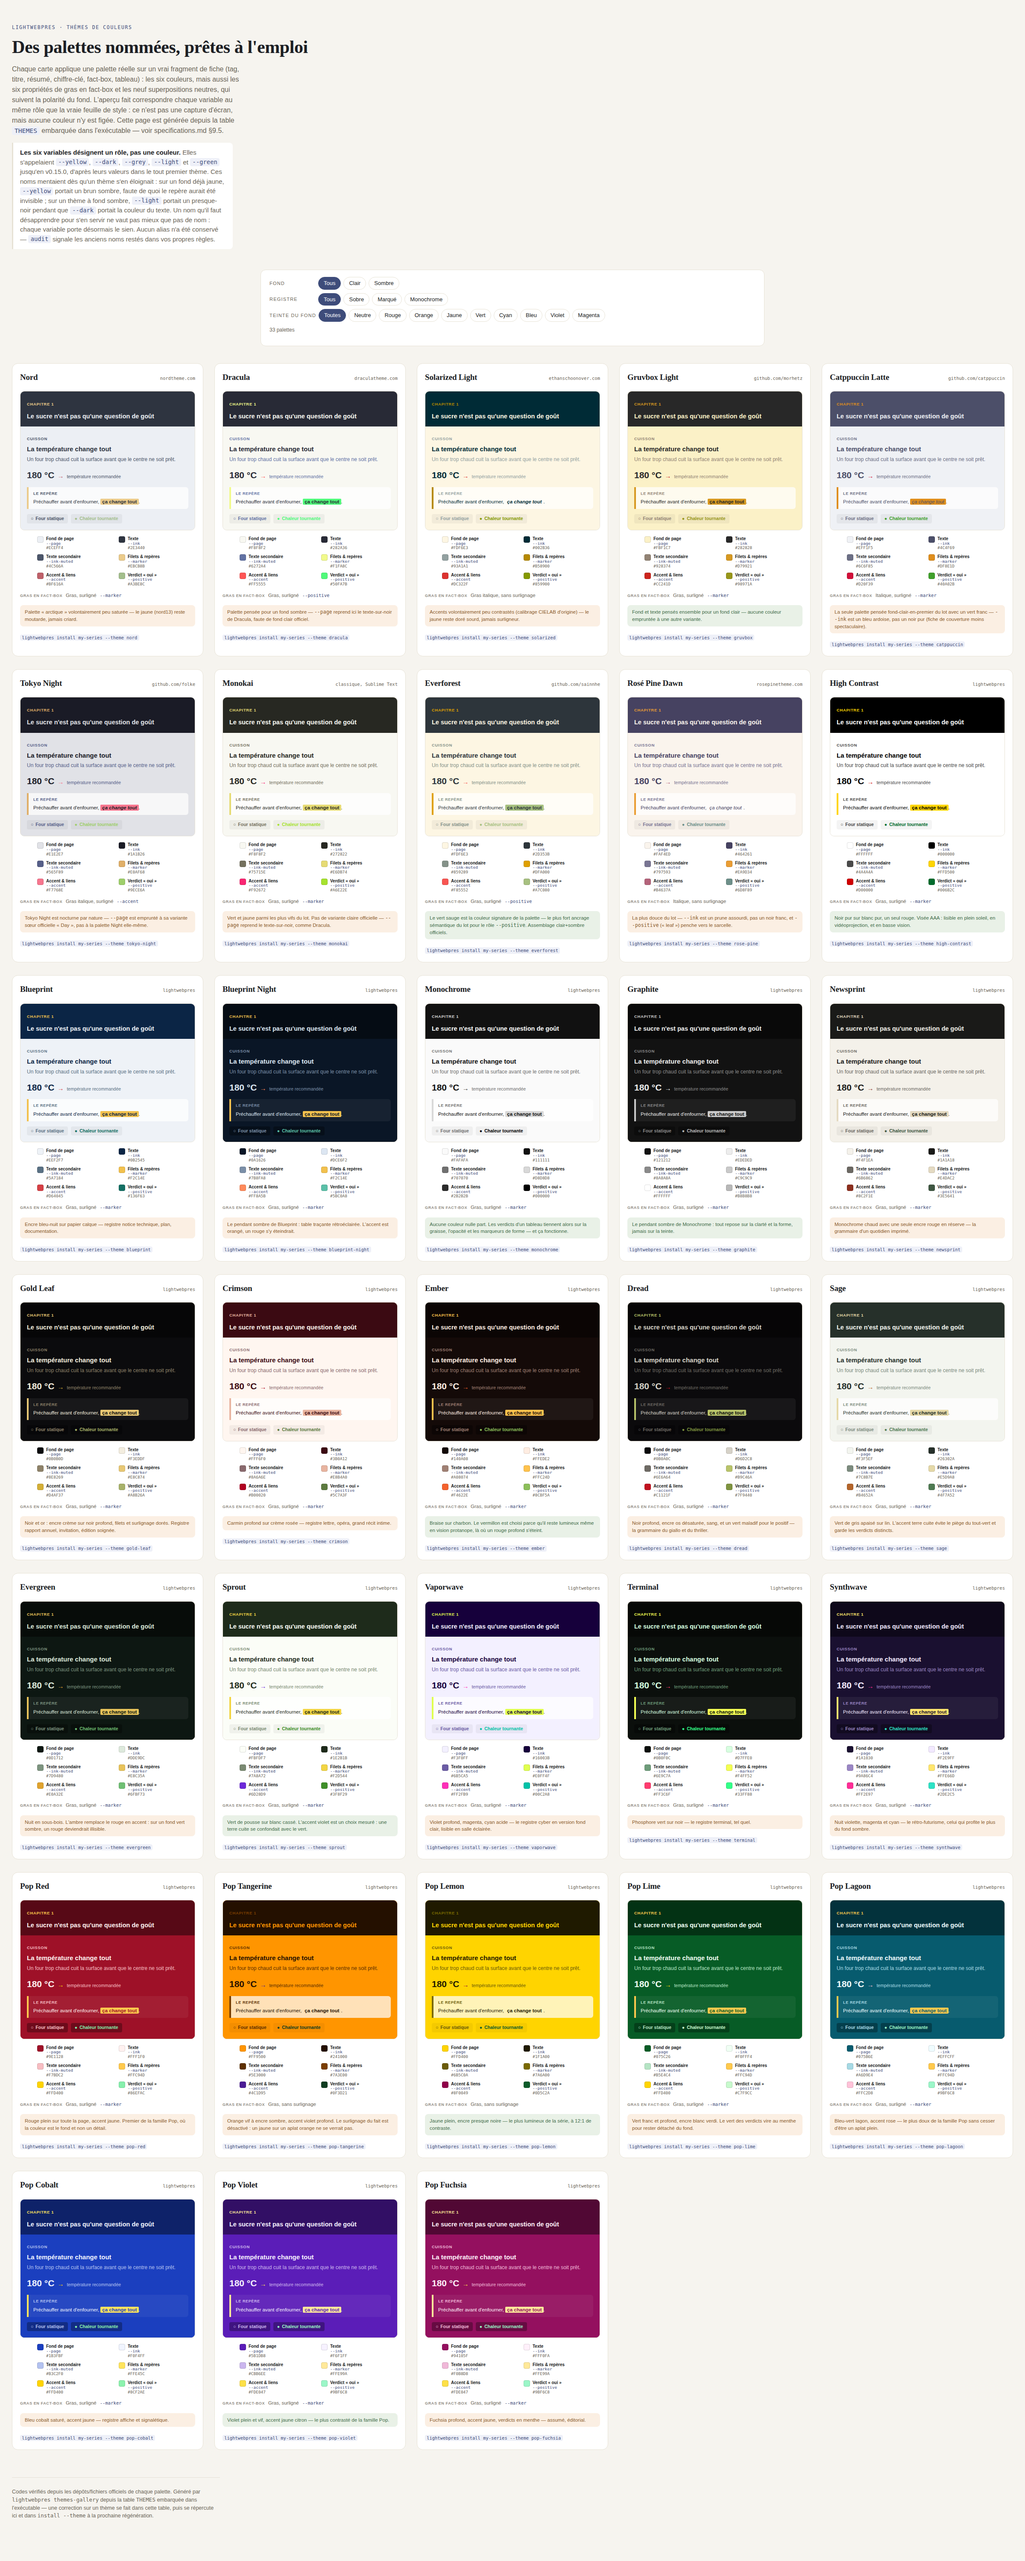
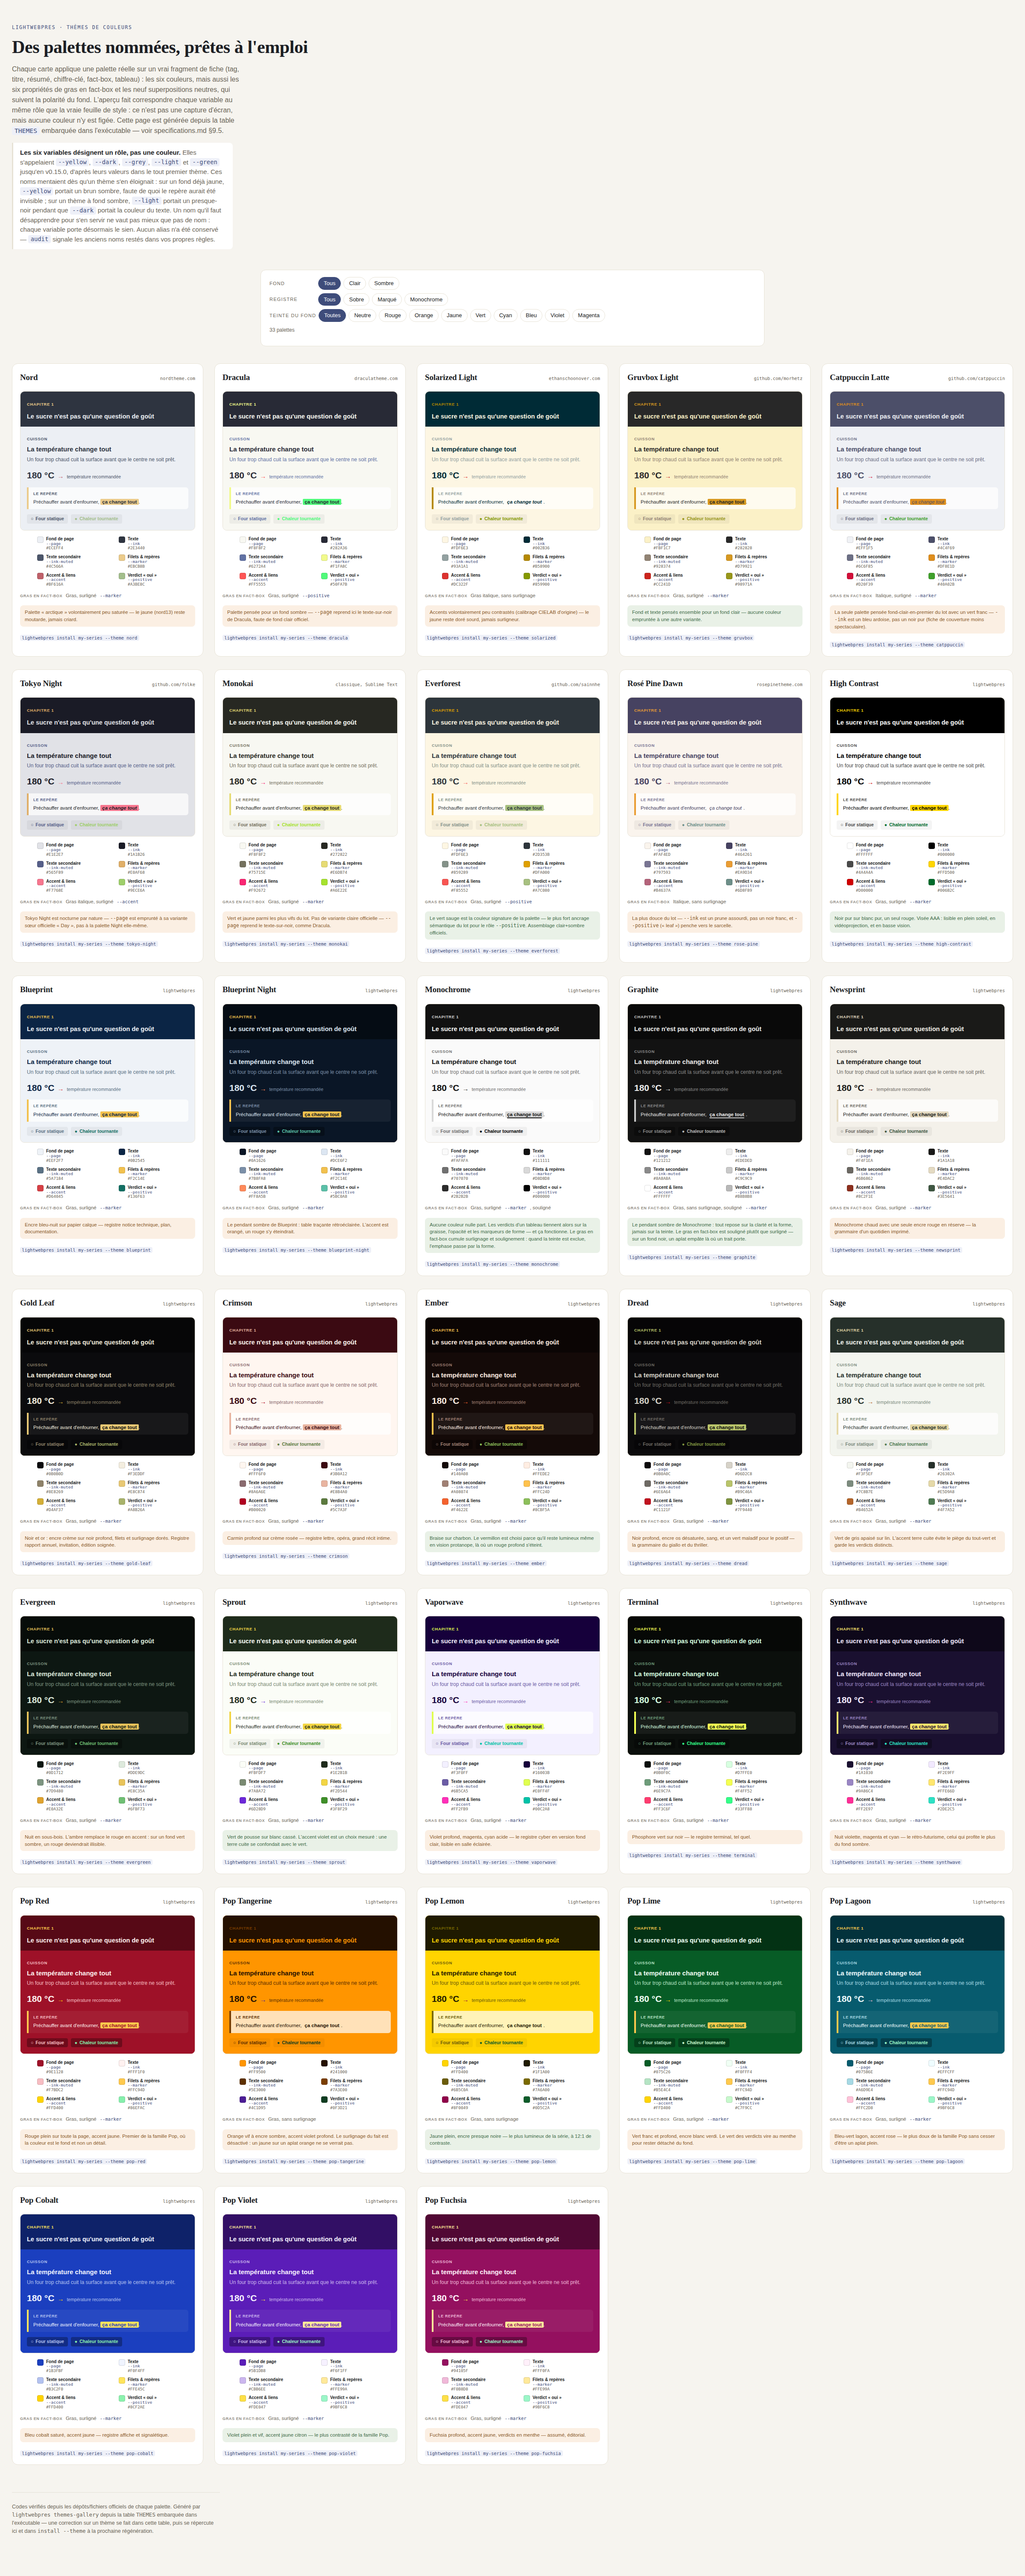
monochrome and graphite demonstrate the underline
An axis no built-in theme uses is an axis nobody sees: the gallery is
where a reader meets these treatments, and it can only show what the
table contains.

Not newsprint and blueprint, which is what I proposed before measuring.
Two findings changed the choice:

- A --marker picked to work as a highlight BACKGROUND is usually far too
  pale to work as a line: 1.23:1 against the page on newsprint, 1.49:1 on
  blueprint. Legible as a ground, invisible as a rule.
- monochrome and graphite are the two palettes that refuse hue outright —
  their note already says "tout repose sur la clarté et la forme, jamais
  sur la teinte". An underline is exactly a form and not a hue, so the
  axis belongs to them more than to any other pair in the catalogue.

They also cover the whole feature between them, which newsprint and
blueprint would not have:

    monochrome  bold, highlighted --marker, underlined (currentColor)
                -> underline AS WELL AS a marker, on a light page
    graphite    bold, no highlight, underlined --marker
                -> underline INSTEAD of a marker, on a dark page

currentColor on monochrome because detaching the line by colour makes no
sense on a theme that has none; var(--marker) on graphite only because it
is dark, where that same grey reads at 11.3:1.

Nine distinct emphasis combinations across the catalogue now, up from
seven. Both themes verified in a browser on a real build, not just in the
gallery mock-up.
[…]

diff --git a/themes-gallery.html b/themes-gallery.html
@@ -1081,7 +1081,7 @@
         <h2>Monochrome</h2>
         <p class="theme-source">lightwebpres</p>
       </header>
-      <div class="preview" style="--marker:#D8D8D8;--ink:#111111;--ink-muted:#707070;--page:#FAFAFA;--accent:#2B2B2B;--positive:#000000;--fact-strong-weight:bold;--fact-strong-style:normal;--fact-strong-highlight:var(--marker);--fact-strong-ink:var(--ink);--fact-strong-decoration:none;--fact-strong-decoration-color:currentColor;--rule:rgba(0, 0, 0, 0.10);--rule-strong:rgba(0, 0, 0, 0.16);--surface:rgba(255, 255, 255, 0.72);--sunken:rgba(0, 0, 0, 0.045);--cover-bg:var(--ink);--cover-fg:var(--page);--cover-fg-faint:rgba(255, 255, 255, 0.34);--control:rgba(255, 255, 255, 0.92);--control-soft:rgba(255, 255, 255, 0.75);">
+      <div class="preview" style="--marker:#D8D8D8;--ink:#111111;--ink-muted:#707070;--page:#FAFAFA;--accent:#2B2B2B;--positive:#000000;--fact-strong-weight:bold;--fact-strong-style:normal;--fact-strong-highlight:var(--marker);--fact-strong-ink:var(--ink);--fact-strong-decoration:underline;--fact-strong-decoration-color:currentColor;--rule:rgba(0, 0, 0, 0.10);--rule-strong:rgba(0, 0, 0, 0.16);--surface:rgba(255, 255, 255, 0.72);--sunken:rgba(0, 0, 0, 0.045);--cover-bg:var(--ink);--cover-fg:var(--page);--cover-fg-faint:rgba(255, 255, 255, 0.34);--control:rgba(255, 255, 255, 0.92);--control-soft:rgba(255, 255, 255, 0.75);">
         <div class="preview-cover">
           <span class="preview-tag">Chapitre 1</span>
           <div class="preview-cover-title">Le sucre n'est pas qu'une question de go&ucirc;t</div>
@@ -1116,8 +1116,8 @@
         <li class="swatch"><span class="swatch-chip" style="background:#2B2B2B"></span><span class="swatch-text"><div class="swatch-role">Accent &amp; liens</div><div class="swatch-var">--accent</div><div class="swatch-hex">#2B2B2B</div></span></li>
         <li class="swatch"><span class="swatch-chip" style="background:#000000"></span><span class="swatch-text"><div class="swatch-role">Verdict &laquo;&nbsp;oui&nbsp;&raquo;</div><div class="swatch-var">--positive</div><div class="swatch-hex">#000000</div></span></li>
       </ul>
-      <p class="fact-treatment"><span>Gras en fact-box</span>Gras, surlign&eacute; <code>--marker</code></p>
-      <p class="theme-note theme-note--good">Aucune couleur nulle part. Les verdicts d'un tableau tiennent alors sur la graisse, l'opacité et les marqueurs de forme — et ça fonctionne.</p>
+      <p class="fact-treatment"><span>Gras en fact-box</span>Gras, surlign&eacute; <code>--marker</code>, soulign&eacute;</p>
+      <p class="theme-note theme-note--good">Aucune couleur nulle part. Les verdicts d'un tableau tiennent alors sur la graisse, l'opacité et les marqueurs de forme — et ça fonctionne. Le gras en fact-box cumule surlignage et soulignement : quand la teinte est exclue, l'emphase passe par la forme.</p>
       <p class="install-hint"><code>lightwebpres install my-series --theme monochrome</code></p>
     </article>
 
@@ -1126,7 +1126,7 @@
         <h2>Graphite</h2>
         <p class="theme-source">lightwebpres</p>
       </header>
-      <div class="preview" style="--marker:#C9C9C9;--ink:#EDEDED;--ink-muted:#8A8A8A;--page:#121212;--accent:#FFFFFF;--positive:#B8B8B8;--fact-strong-weight:bold;--fact-strong-style:normal;--fact-strong-highlight:var(--marker);--fact-strong-ink:var(--page);--fact-strong-decoration:none;--fact-strong-decoration-color:currentColor;--rule:rgba(255, 255, 255, 0.14);--rule-strong:rgba(255, 255, 255, 0.24);--surface:rgba(255, 255, 255, 0.055);--sunken:rgba(0, 0, 0, 0.30);--cover-bg:rgba(0, 0, 0, 0.45);--cover-fg:var(--ink);--cover-fg-faint:rgba(255, 255, 255, 0.30);--control:rgba(255, 255, 255, 0.13);--control-soft:rgba(255, 255, 255, 0.09);">
+      <div class="preview" style="--marker:#C9C9C9;--ink:#EDEDED;--ink-muted:#8A8A8A;--page:#121212;--accent:#FFFFFF;--positive:#B8B8B8;--fact-strong-weight:bold;--fact-strong-style:normal;--fact-strong-highlight:transparent;--fact-strong-ink:inherit;--fact-strong-decoration:underline;--fact-strong-decoration-color:var(--marker);--rule:rgba(255, 255, 255, 0.14);--rule-strong:rgba(255, 255, 255, 0.24);--surface:rgba(255, 255, 255, 0.055);--sunken:rgba(0, 0, 0, 0.30);--cover-bg:rgba(0, 0, 0, 0.45);--cover-fg:var(--ink);--cover-fg-faint:rgba(255, 255, 255, 0.30);--control:rgba(255, 255, 255, 0.13);--control-soft:rgba(255, 255, 255, 0.09);">
         <div class="preview-cover">
           <span class="preview-tag">Chapitre 1</span>
           <div class="preview-cover-title">Le sucre n'est pas qu'une question de go&ucirc;t</div>
@@ -1161,8 +1161,8 @@
         <li class="swatch"><span class="swatch-chip" style="background:#FFFFFF"></span><span class="swatch-text"><div class="swatch-role">Accent &amp; liens</div><div class="swatch-var">--accent</div><div class="swatch-hex">#FFFFFF</div></span></li>
         <li class="swatch"><span class="swatch-chip" style="background:#B8B8B8"></span><span class="swatch-text"><div class="swatch-role">Verdict &laquo;&nbsp;oui&nbsp;&raquo;</div><div class="swatch-var">--positive</div><div class="swatch-hex">#B8B8B8</div></span></li>
       </ul>
-      <p class="fact-treatment"><span>Gras en fact-box</span>Gras, surlign&eacute; <code>--marker</code></p>
-      <p class="theme-note theme-note--good">Le pendant sombre de Monochrome : tout repose sur la clarté et la forme, jamais sur la teinte.</p>
+      <p class="fact-treatment"><span>Gras en fact-box</span>Gras, sans surlignage, soulign&eacute; <code>--marker</code></p>
+      <p class="theme-note theme-note--good">Le pendant sombre de Monochrome : tout repose sur la clarté et la forme, jamais sur la teinte. Le gras en fact-box est souligné plutôt que surligné — sur un fond noir, un aplat empâte là où un trait porte.</p>
       <p class="install-hint"><code>lightwebpres install my-series --theme graphite</code></p>
     </article>
 

diff --git a/tests/test_lightwebpres.py b/tests/test_lightwebpres.py
@@ -34,6 +34,22 @@ def run(*args, cwd=None, env=None):
     )
 
 
+def contrast_ratio(hex_a, hex_b):
+    """WCAG relative-luminance contrast between two sRGB hex colours.
+
+    Used to assert that a palette choice is legible rather than merely
+    present — "the variable is set" has passed several times over a
+    result nobody could actually read."""
+    def luminance(value):
+        channels = [int(value.lstrip('#')[i:i + 2], 16) / 255 for i in (0, 2, 4)]
+        channels = [c / 12.92 if c <= 0.04045 else ((c + 0.055) / 1.055) ** 2.4
+                    for c in channels]
+        return 0.2126 * channels[0] + 0.7152 * channels[1] + 0.0722 * channels[2]
+
+    lighter, darker = sorted((luminance(hex_a), luminance(hex_b)), reverse=True)
+    return (lighter + 0.05) / (darker + 0.05)
+
+
 def scaffold(tmp, article_md, series_extra=None, source_name='a.md', file_name='a.html'):
     """Creates a minimal single-article series and returns its path."""
     root = Path(tmp)
@@ -3228,6 +3244,36 @@ class GalleryPreviewFidelity(unittest.TestCase):
         self.assertEqual(as_well['decoration'], 'underline')
         self.assertEqual(as_well['decoration-color'], 'currentColor')
 
+    def test_the_catalogue_demonstrates_both_ways_of_using_the_underline(self):
+        """An axis no built-in theme uses is an axis nobody ever sees:
+        the gallery is the only place a reader meets these treatments, and
+        it can only show what the table contains. Both modes have to be
+        on display — underline INSTEAD of a marker, and AS WELL AS one.
+
+        Pinned because deleting a theme's fact_decoration breaks nothing
+        else: every other assertion here stays self-consistent, so the
+        catalogue would quietly stop demonstrating the feature."""
+        instead, as_well = [], []
+        for slug, theme in self.lwp.THEMES.items():
+            props = self.lwp.theme_fact_properties(theme)
+            if props['decoration'] != 'underline':
+                continue
+            (instead if props['highlight'] == 'transparent' else as_well).append(slug)
+
+        self.assertTrue(instead, 'no theme shows an underline replacing the marker')
+        self.assertTrue(as_well, 'no theme shows an underline alongside the marker')
+
+        # And it has to be legible: a --marker chosen to work as a
+        # highlight BACKGROUND is often far too pale to work as a line.
+        for slug in instead + as_well:
+            theme = self.lwp.THEMES[slug]
+            colour = theme.get('fact_decoration_color')
+            if colour is None:
+                continue    # currentColor — as legible as the text itself
+            self.assertGreaterEqual(
+                contrast_ratio(theme[colour], theme['page']), 3.0,
+                f'{slug}: the underline is too faint against the page')
+
     def test_the_default_highlight_role_names_a_role_that_exists(self):
         """A latent defect: the fallback stayed 'yellow' through the
         v0.15.0 rename. No built-in theme trips it — every entry states
@@ -3299,11 +3345,16 @@ class PaletteRoleNames(unittest.TestCase):
         self.assertEqual(offenders, [], f'colour names among the roles: {offenders}')
 
     def test_every_theme_defines_exactly_the_declared_roles(self):
+        """Every palette role present, and nothing colour-shaped beyond
+        them. The fact_* emphasis keys are matched by prefix rather than
+        listed: an axis added later is legitimately new metadata, but a
+        stray colour key still has to fail here."""
         meta_keys = {'label', 'source', 'note', 'note_good', 'intensity',
-                     'dark_background', 'fact_weight', 'fact_style', 'fact_highlight'}
+                     'dark_background'}
         for slug, theme in self.lwp.THEMES.items():
-            self.assertEqual(sorted(k for k in theme if k not in meta_keys),
-                             sorted(self.lwp.PALETTE_ROLES), slug)
+            colour_keys = [k for k in theme
+                           if k not in meta_keys and not k.startswith('fact_')]
+            self.assertEqual(sorted(colour_keys), sorted(self.lwp.PALETTE_ROLES), slug)
 
     def test_a_fact_highlight_only_ever_names_a_role_that_exists(self):
         for slug, theme in self.lwp.THEMES.items():

diff --git a/specifications.md b/specifications.md
@@ -1186,9 +1186,22 @@ un menu fermé : « gras sans aucun surlignage » se dit
 surlignage vert » se dit `--fact-strong-weight: normal` +
 `--fact-strong-highlight: var(--positive)`, et « souligné et rien
 d'autre » se dit `--fact-strong-decoration: underline` avec un
-`--fact-strong-highlight: transparent`. Sept combinaisons distinctes
-existent d'ailleurs parmi les thèmes intégrés — aucun d'eux n'emploie
-encore le soulignement, l'axe étant plus récent que le catalogue.
+`--fact-strong-highlight: transparent`. Neuf combinaisons distinctes
+existent d'ailleurs parmi les thèmes intégrés.
+
+Les deux thèmes qui emploient le soulignement sont `monochrome` et
+`graphite`, et ce n'est pas un choix arbitraire : ce sont les deux
+palettes qui s'interdisent la teinte (« tout repose sur la clarté et la
+forme »), et un soulignement est justement une forme, pas une teinte.
+Elles couvrent les deux façons d'employer l'axe — `monochrome` cumule
+surlignage **et** soulignement, `graphite` souligne **à la place** d'un
+surlignage — sur les deux polarités de fond.
+
+Un `--marker` fait pour servir de fond de surlignage est souvent trop
+pâle pour servir de trait : mesuré à 1,23:1 contre le fond de page sur
+`newsprint` et 1,49:1 sur `blueprint`. D'où le trait en `currentColor`
+sur `monochrome`, et en `var(--marker)` sur `graphite` seulement parce
+que ce thème est sombre, où le même gris ressort à 11,3:1.
 
 Deux conséquences pratiques, apprises en constatant que rien ne les
 disait :
@@ -2018,7 +2031,7 @@ traitement du gras que le thème a choisi (§9.1) — « Gras, surligné
 `--marker` », « Gras, sans surlignage », « Italique, surligné
 `--positive` », « Gras, sans surlignage, souligné `--marker` »… La
 galerie appliquait ces propriétés à sa maquette sans jamais les nommer :
-sept combinaisons distinctes existent parmi les thèmes intégrés et
+neuf combinaisons distinctes existent parmi les thèmes intégrés et
 aucune n'était lisible autrement qu'en scrutant deux lignes d'aperçu.
 Le soulignement n'est mentionné que lorsqu'il est présent — en annoncer
 l'absence sur chaque carte noierait les axes qui, eux, diffèrent.
